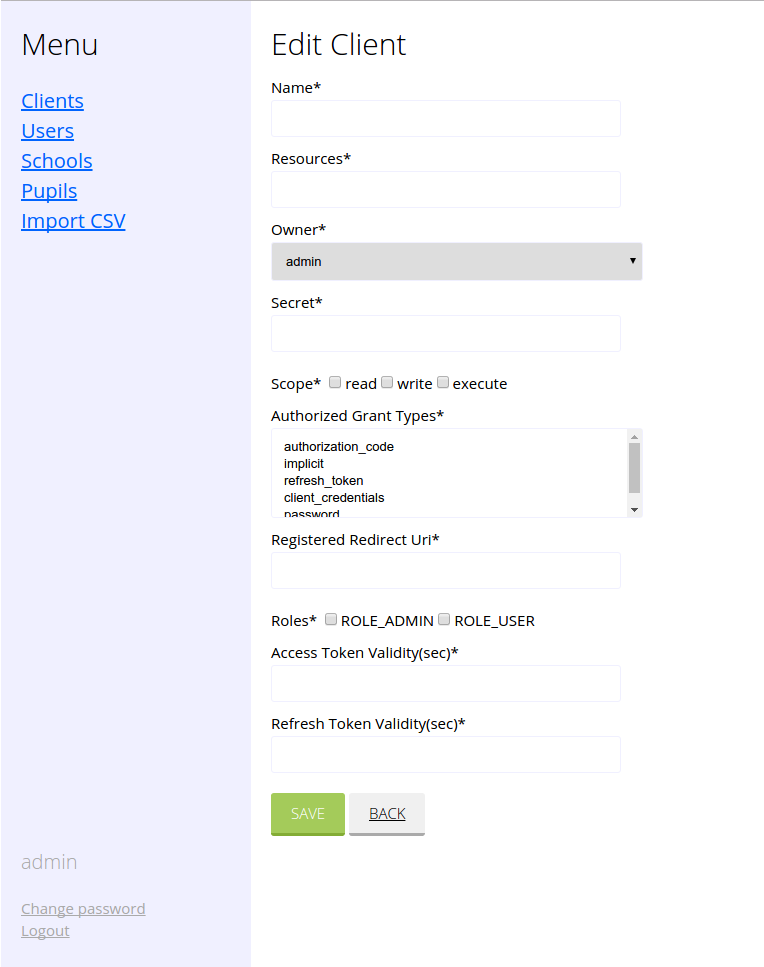
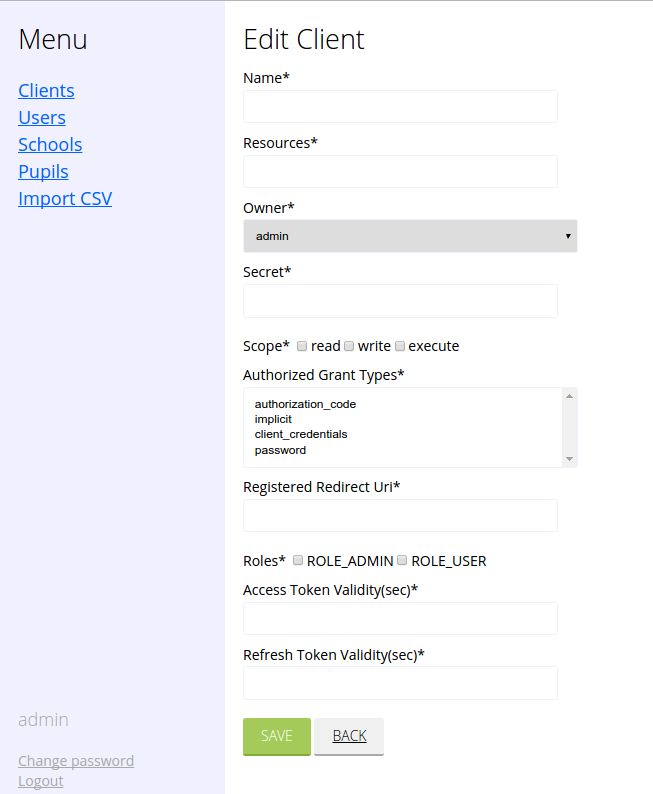
Cut from ivis server conf refresh token grant type

diff --git a/docs/use_cases/ivis_server.rst b/docs/use_cases/ivis_server.rst
@@ -1,20 +1,15 @@
-iVIS server
-===========
+iVIS Server Configuration
+=========================
 
-iVIS server requires to manage clients, users, schools, pupils of iVIS system.
+    * `Create or edit iVIS client`_
 
-Explanation for not understandable parts.
-
-    * `Create/Edit iVIS client`_
-
-.. _`Create/Edit iVIS client`:
+.. _`Create or edit iVIS client`:
 
 Create/Edit iVIS client
 -----------------------
 
-Clients require you get access to system data.
-
-Page for this purpose is
+Client is any client application that connects to the iVIS Server and works with data.
+To create a client go to the clients list and click Create button.
 
 .. image:: /images/ivisClient.png
 
@@ -72,10 +67,6 @@ This section allows choose ways for obtain access token for client
 .. envvar:: implicit
 
     About this you can read at `Implicit Grant <https://tools.ietf.org/html/rfc6749#section-4.2>`_
-
-.. envvar:: refresh_token
-
-    About this you can read at `Refreshing an Access Token <https://tools.ietf.org/html/rfc6749#section-6>`_
 
 .. envvar:: client_credentials
 
